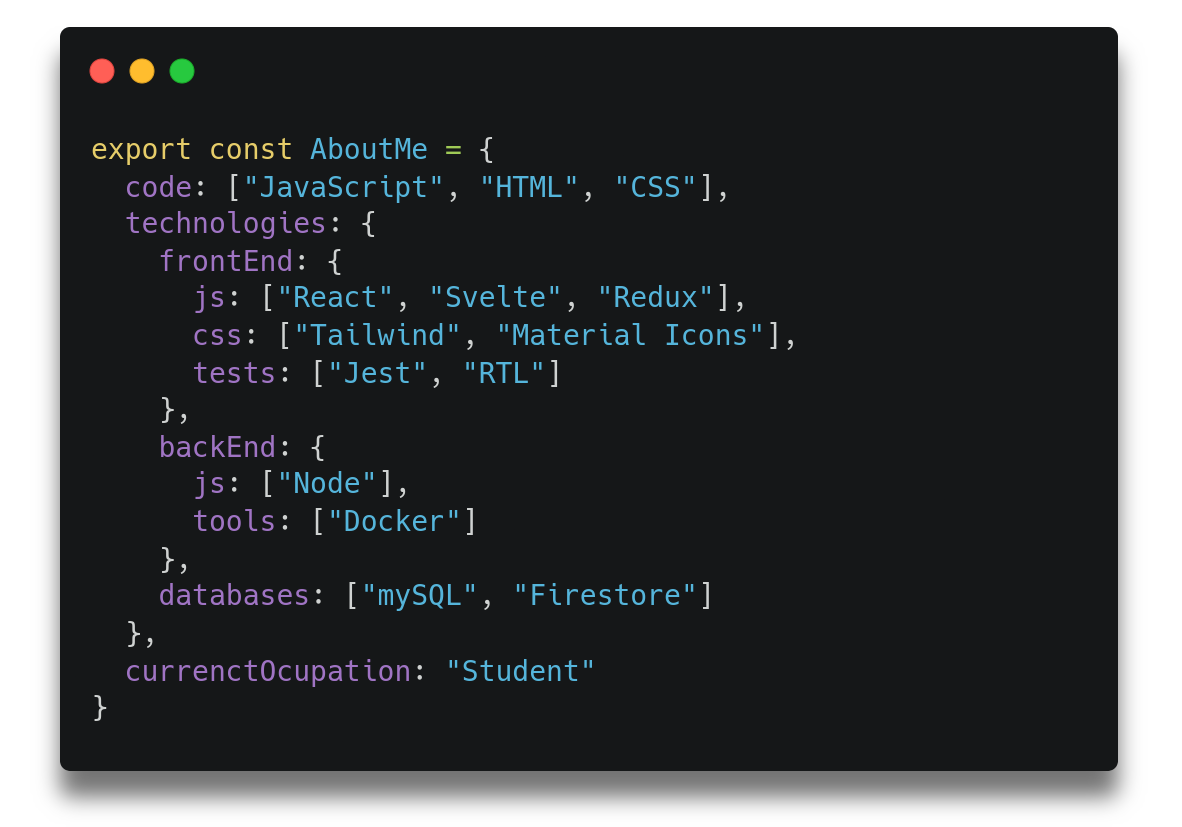
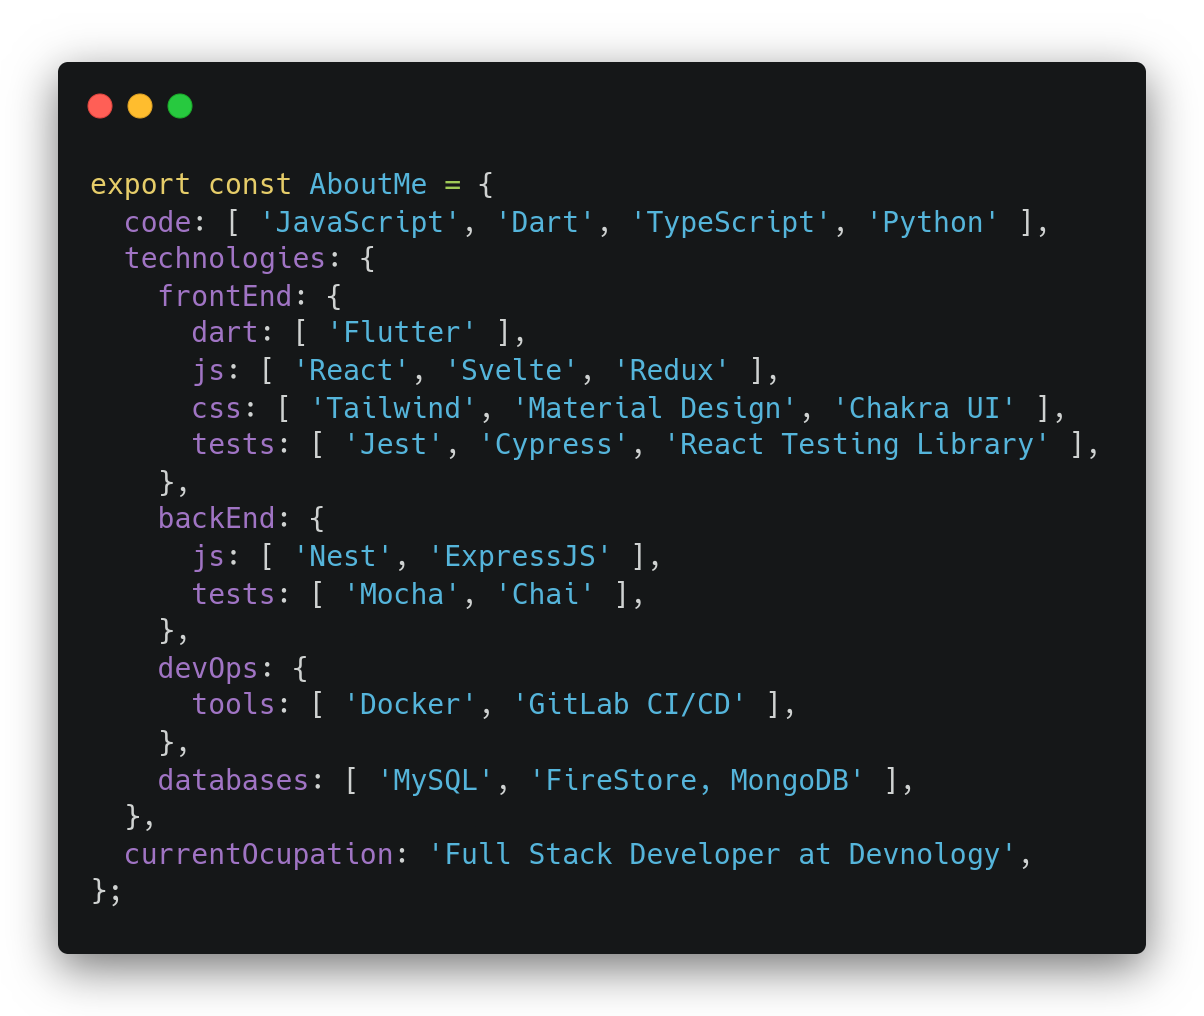
Updated README.md

diff --git a/aboutme.js b/aboutme.js
@@ -1,0 +1,20 @@
+export const AboutMe = {
+  code: [ 'JavaScript', 'Dart', 'TypeScript', 'Python' ],
+  technologies: {
+    frontEnd: {
+      dart: [ 'Flutter' ],
+      js: [ 'React', 'Svelte', 'Redux' ],
+      css: [ 'Tailwind', 'Material Design', 'Chakra UI' ],
+      tests: [ 'Jest', 'Cypress', 'React Testing Library' ],
+    },
+    backEnd: {
+      js: [ 'Nest', 'ExpressJS' ],
+      tests: [ 'Mocha', 'Chai' ],
+    },
+    devOps: {
+      tools: [ 'Docker', 'GitLab CI/CD' ],
+    },
+    databases: [ 'MySQL', 'FireStore, MongoDB' ],
+  },
+  currentOcupation: 'Full Stack Developer at Devnology',
+};

diff --git a/README.md b/README.md
@@ -1,14 +1,15 @@
 # Hi 👋, I'm Geraldo Almeida
 
-<img src="./carbon.png" style="max-height: 700px" alt="My known languages are JavaScript, HTML and CSS. The technologies I use for front-end are React, Svelte, Redux, Tailwind, Material Icons, Jest and React and Svelte Testing Library. The technologies I use for backend are Node and Docker. The databases I'm familliar with are mySQL and Firestore from Firebase. I'm currently a Student."/>
+<img src="./carbon.png" style="max-height: 700px" alt="My known languages are JavaScript, Dart, Python and TypeScript. The technologies I use for front-end are React, Flutter, Svelte, Redux, Tailwind, Chakra UI, Jest, Cypress, React and React Testing Library. The technologies I use for backend are Nest, Express and Mocha. The databases I'm familliar with are MySQL, MongoDB and Firestore from Firebase. The tools I use for DevOps are Docker and GitLab C.I. and C.D.. I'm a Full Stack Developer at Devnology."/>
 
 <hr/>
 
-### I'm a full stack Web Developer currently studying at trybe.
+## I'm a full stack Web Developer currently working at [Devnology](https://devnology.com.br/).
 
-- 📫 You can see my works or contact me [here](https://gralmeidan.github.io/)
-- 🔭 I'm currently working on projects to add to my portfolio
-- 👯 And looking to collaborate on projects involving JS and Tailwind
+- 🧑💻  You can see my works or contact me [here](https://gralmeidan.github.io/)
+- 📫 Or e-mail me at gralmeidan@gmail.com
+- 🔭 I'm currently working on improving my portfolio.
+- 🧑🤝🧑 And looking to collaborate on projects involving Svelte and Tailwind
 
 <hr/>
 
